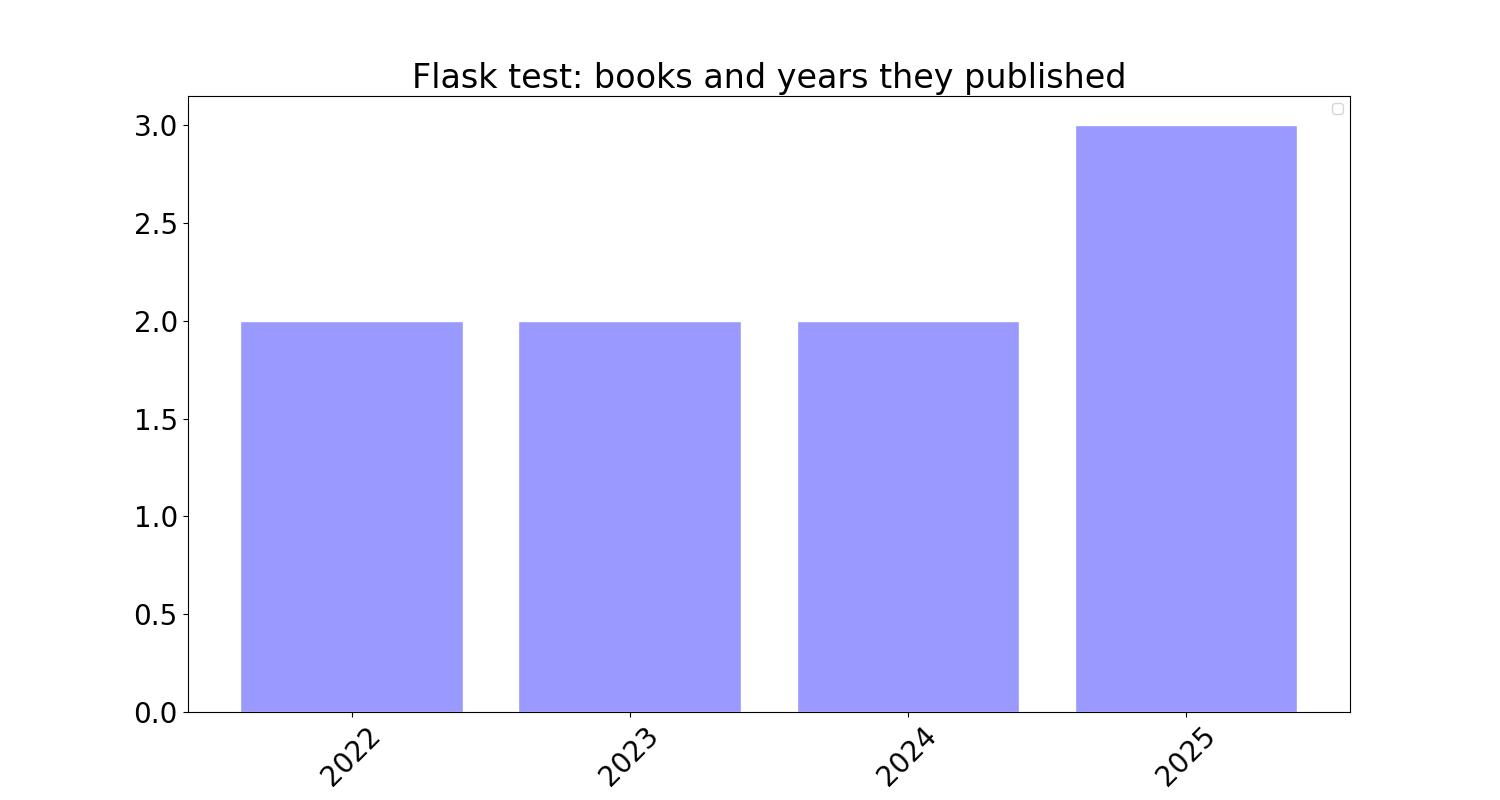
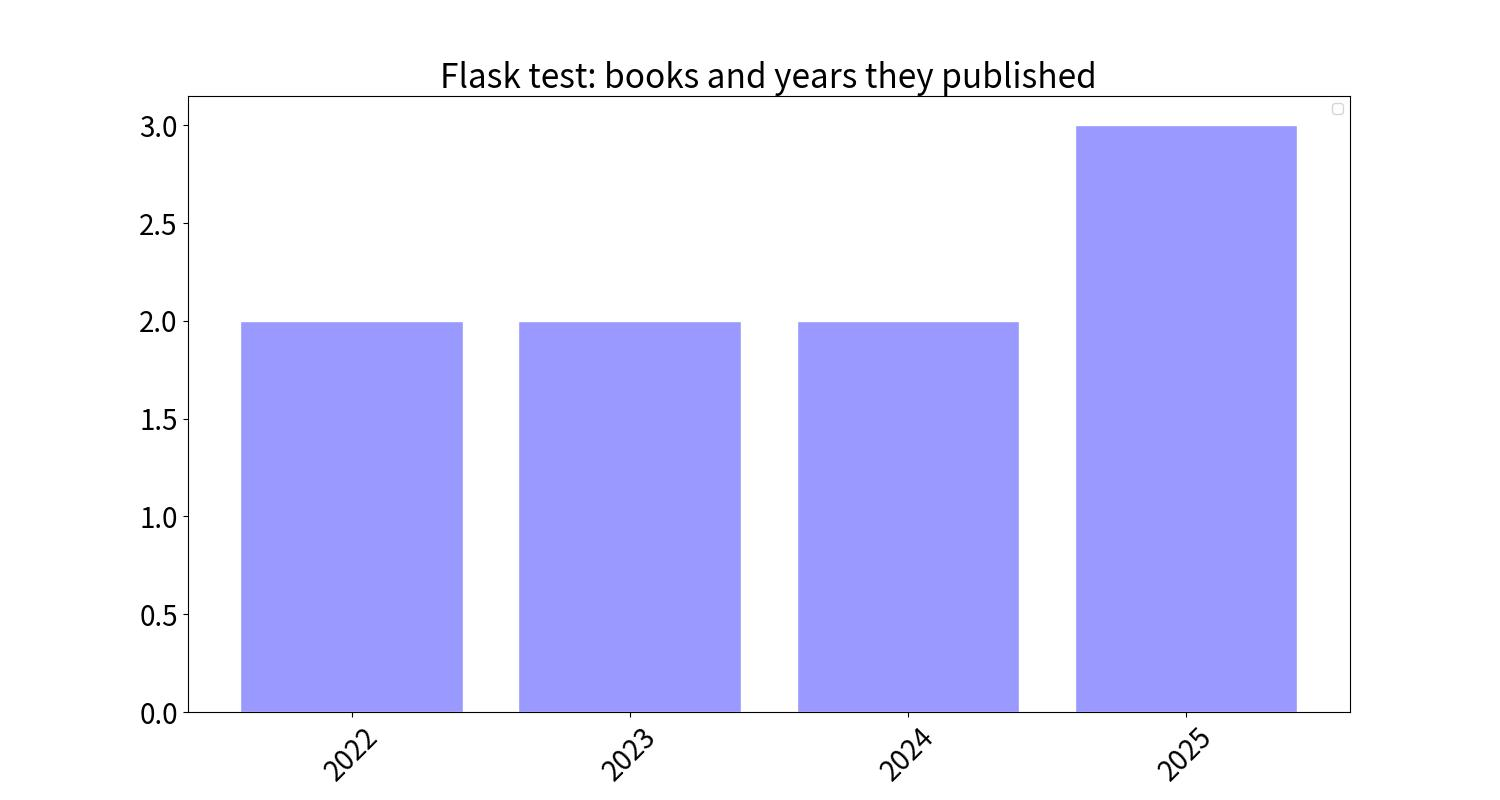
adding plotting pie figures code

diff --git a/src/script/plot_img.py b/src/script/plot_img.py
@@ -1,15 +1,42 @@
 import matplotlib.pyplot as plt
-import numpy as np
+from matplotlib import font_manager
 import json
-import matplotlib.font_manager as font_manager
+from pathlib import Path, PosixPath
+from typing import Any, Dict, List
+
+
+# 根据当前脚本的位置确定项目根目录，避免从其他目录运行时找不到数据文件
+PROJECT_ROOT = Path(__file__).resolve().parents[2]
+DATA_FILE = PROJECT_ROOT / "data" / "infor.json"
+PICTURE_DIR = PROJECT_ROOT / "src" / "pics" / "test_pics"
+
+
+def load_books() -> List[Dict[str, Any]]:
+    """读取爬虫生成的书籍信息。"""
+    with DATA_FILE.open("r", encoding="utf-8") as f:
+        return json.load(f)
+
+
+def set_chinese_font() -> None:
+    # 直接注册系统中文字体，避免字体缓存未更新时中文显示为方框
+    font_files = (
+        Path("/usr/share/fonts/opentype/noto/NotoSansCJK-Regular.ttc"),
+        Path("/usr/share/fonts/truetype/droid/DroidSansFallbackFull.ttf"),
+    )
+    font_name = "SimHei"
+    for font_file in font_files:
+        if font_file.exists():
+            font_manager.fontManager.addfont(str(font_file))
+            font_name = font_manager.FontProperties(fname=PosixPath(font_file)).get_name()
+            break
+
+    plt.rcParams["font.sans-serif"] = [font_name]
+    plt.rcParams["axes.unicode_minus"] = False
 
 
 def show_bar_year() -> None : 
     # 打开JOSN
-    with open("data/infor.json", "r", encoding="utf-8") as f :
-        json_books = json.load(f)
-        # test print
-        # print(json_array)
+    json_books = load_books()
 
     # 记录出版年限，作为 x 轴
     # 一共 2022 2023 2024 2025 四个值
@@ -40,7 +67,7 @@ def show_bar_year() -> None :
 
     # 绘图
     # 创建绘图区
-    plt.rcParams['font.sans-serif'] = ['SimHei']
+    set_chinese_font()
     plt.figure(figsize=(15, 8))
 
     # 绘图
@@ -59,8 +86,113 @@ def show_bar_year() -> None :
     plt.legend()
 
     plt.title('''Flask test: books and years they published''',fontsize = 24)
-    plt.savefig('/home/ianzhang/ai_foundation_prog/langjie_crawler/src/pics/test_pics/publishing_years_bar.jpg')
+    PICTURE_DIR.mkdir(parents=True, exist_ok=True)
+    plt.savefig(PICTURE_DIR / "publishing_years_bar.jpg")
 
     plt.show()
 
 
+def show_pie_word_count() -> None:
+    """绘制书籍字数区间分布饼状图。"""
+    json_books = load_books()
+
+    # 从书籍信息中取出有效字数；爬虫保存的是字符串，因此转成整数后再统计
+    word_counts = []
+    for book in json_books:
+        if book.get("word_count"):
+            word_counts.append(int(book["word_count"]))
+
+    # 参考 task1.md 的体重饼图，将书籍字数划分为四个区间
+    size1 = 0
+    size2 = 0
+    size3 = 0
+    size4 = 0
+    for word_count in word_counts:
+        if word_count <= 1000:
+            size1 += 1
+        elif 1000 < word_count <= 1500:
+            size2 += 1
+        elif 1500 < word_count <= 2000:
+            size3 += 1
+        else:
+            size4 += 1
+
+    labels = "不超过1000字", "1000~1500字", "1500~2000字", "超过2000字"
+    sizes = [size1, size2, size3, size4]
+    explode = (0.2, 0.1, 0, 0)
+
+    # 绘制饼状图，autopct 用于显示每个字数区间所占的百分比
+    set_chinese_font()
+    fig, ax = plt.subplots(figsize=(10, 8))
+    ax.pie(
+        sizes,
+        explode=explode,
+        labels=list(labels),
+        autopct="%1.1f%%",
+        shadow=True,
+        startangle=90,
+    )
+    ax.axis("equal")  # 使用相同的横纵轴比例，保证饼状图为圆形
+    ax.set_title("书籍字数分布", fontsize=20)
+
+    # 创建图片目录并保存结果，关闭画布可避免连续绘图时内容相互叠加
+    PICTURE_DIR.mkdir(parents=True, exist_ok=True)
+    fig.savefig(str(PICTURE_DIR / "word_count_pie.jpg"), dpi=150, bbox_inches="tight")
+    plt.show()  # 弹窗显示图片，关闭窗口后继续执行
+    plt.close(fig)
+
+
+def show_pie_views() -> None:
+    """绘制书籍浏览量区间分布饼状图。"""
+    json_books = load_books()
+
+    # 从书籍信息中取出有效浏览量，并转换成整数以便进行区间比较
+    views = []
+    for book in json_books:
+        if book.get("views"):
+            views.append(int(book["views"]))
+
+    # 按测试数据的取值范围统计各浏览量区间内的书籍数量
+    size1 = 0
+    size2 = 0
+    size3 = 0
+    size4 = 0
+    for view_count in views:
+        if view_count <= 1000:
+            size1 += 1
+        elif 1000 < view_count <= 1500:
+            size2 += 1
+        elif 1500 < view_count <= 2000:
+            size3 += 1
+        else:
+            size4 += 1
+
+    labels = "不超过1000次", "1000~1500次", "1500~2000次", "超过2000次"
+    sizes = [size1, size2, size3, size4]
+    explode = (0.2, 0.1, 0, 0)
+
+    # 绘制各浏览量区间所占比例，并沿用 task1.md 中的阴影和起始角度设置
+    set_chinese_font()
+    fig, ax = plt.subplots(figsize=(10, 8))
+    ax.pie(
+        sizes,
+        explode=explode,
+        labels=list(labels),
+        autopct="%1.1f%%",
+        shadow=True,
+        startangle=90,
+    )
+    ax.axis("equal")  # 使用相同的横纵轴比例，保证饼状图为圆形
+    ax.set_title("书籍浏览量分布", fontsize=20)
+
+    # 将浏览量饼状图保存到测试图片目录，并及时释放画布资源
+    PICTURE_DIR.mkdir(parents=True, exist_ok=True)
+    fig.savefig(str(PICTURE_DIR / "views_pie.jpg"), dpi=150, bbox_inches="tight")
+    plt.show()  # 弹窗显示图片，关闭窗口后继续执行
+    plt.close(fig)
+
+
+if __name__ == "__main__":
+    # 运行本脚本时依次生成书籍字数分布图和浏览量分布图
+    show_pie_word_count()
+    show_pie_views()

diff --git a/src/script/main.py b/src/script/main.py
@@ -4,4 +4,14 @@ import plot_img
 if __name__ == "__main__":
     tabel = crawler.craw_wiki_data()
     crawler.pare_wiki_data(table=tabel)
+
+    # 绘图
+    #plot_img.load_books()
+    #plot_img.set_chinese_font()
+
+    # 柱状图绘制
     plot_img.show_bar_year()
+    # 阅读量饼状图
+    plot_img.show_pie_views()
+    # 字数饼状图
+    plot_img.show_pie_word_count()
